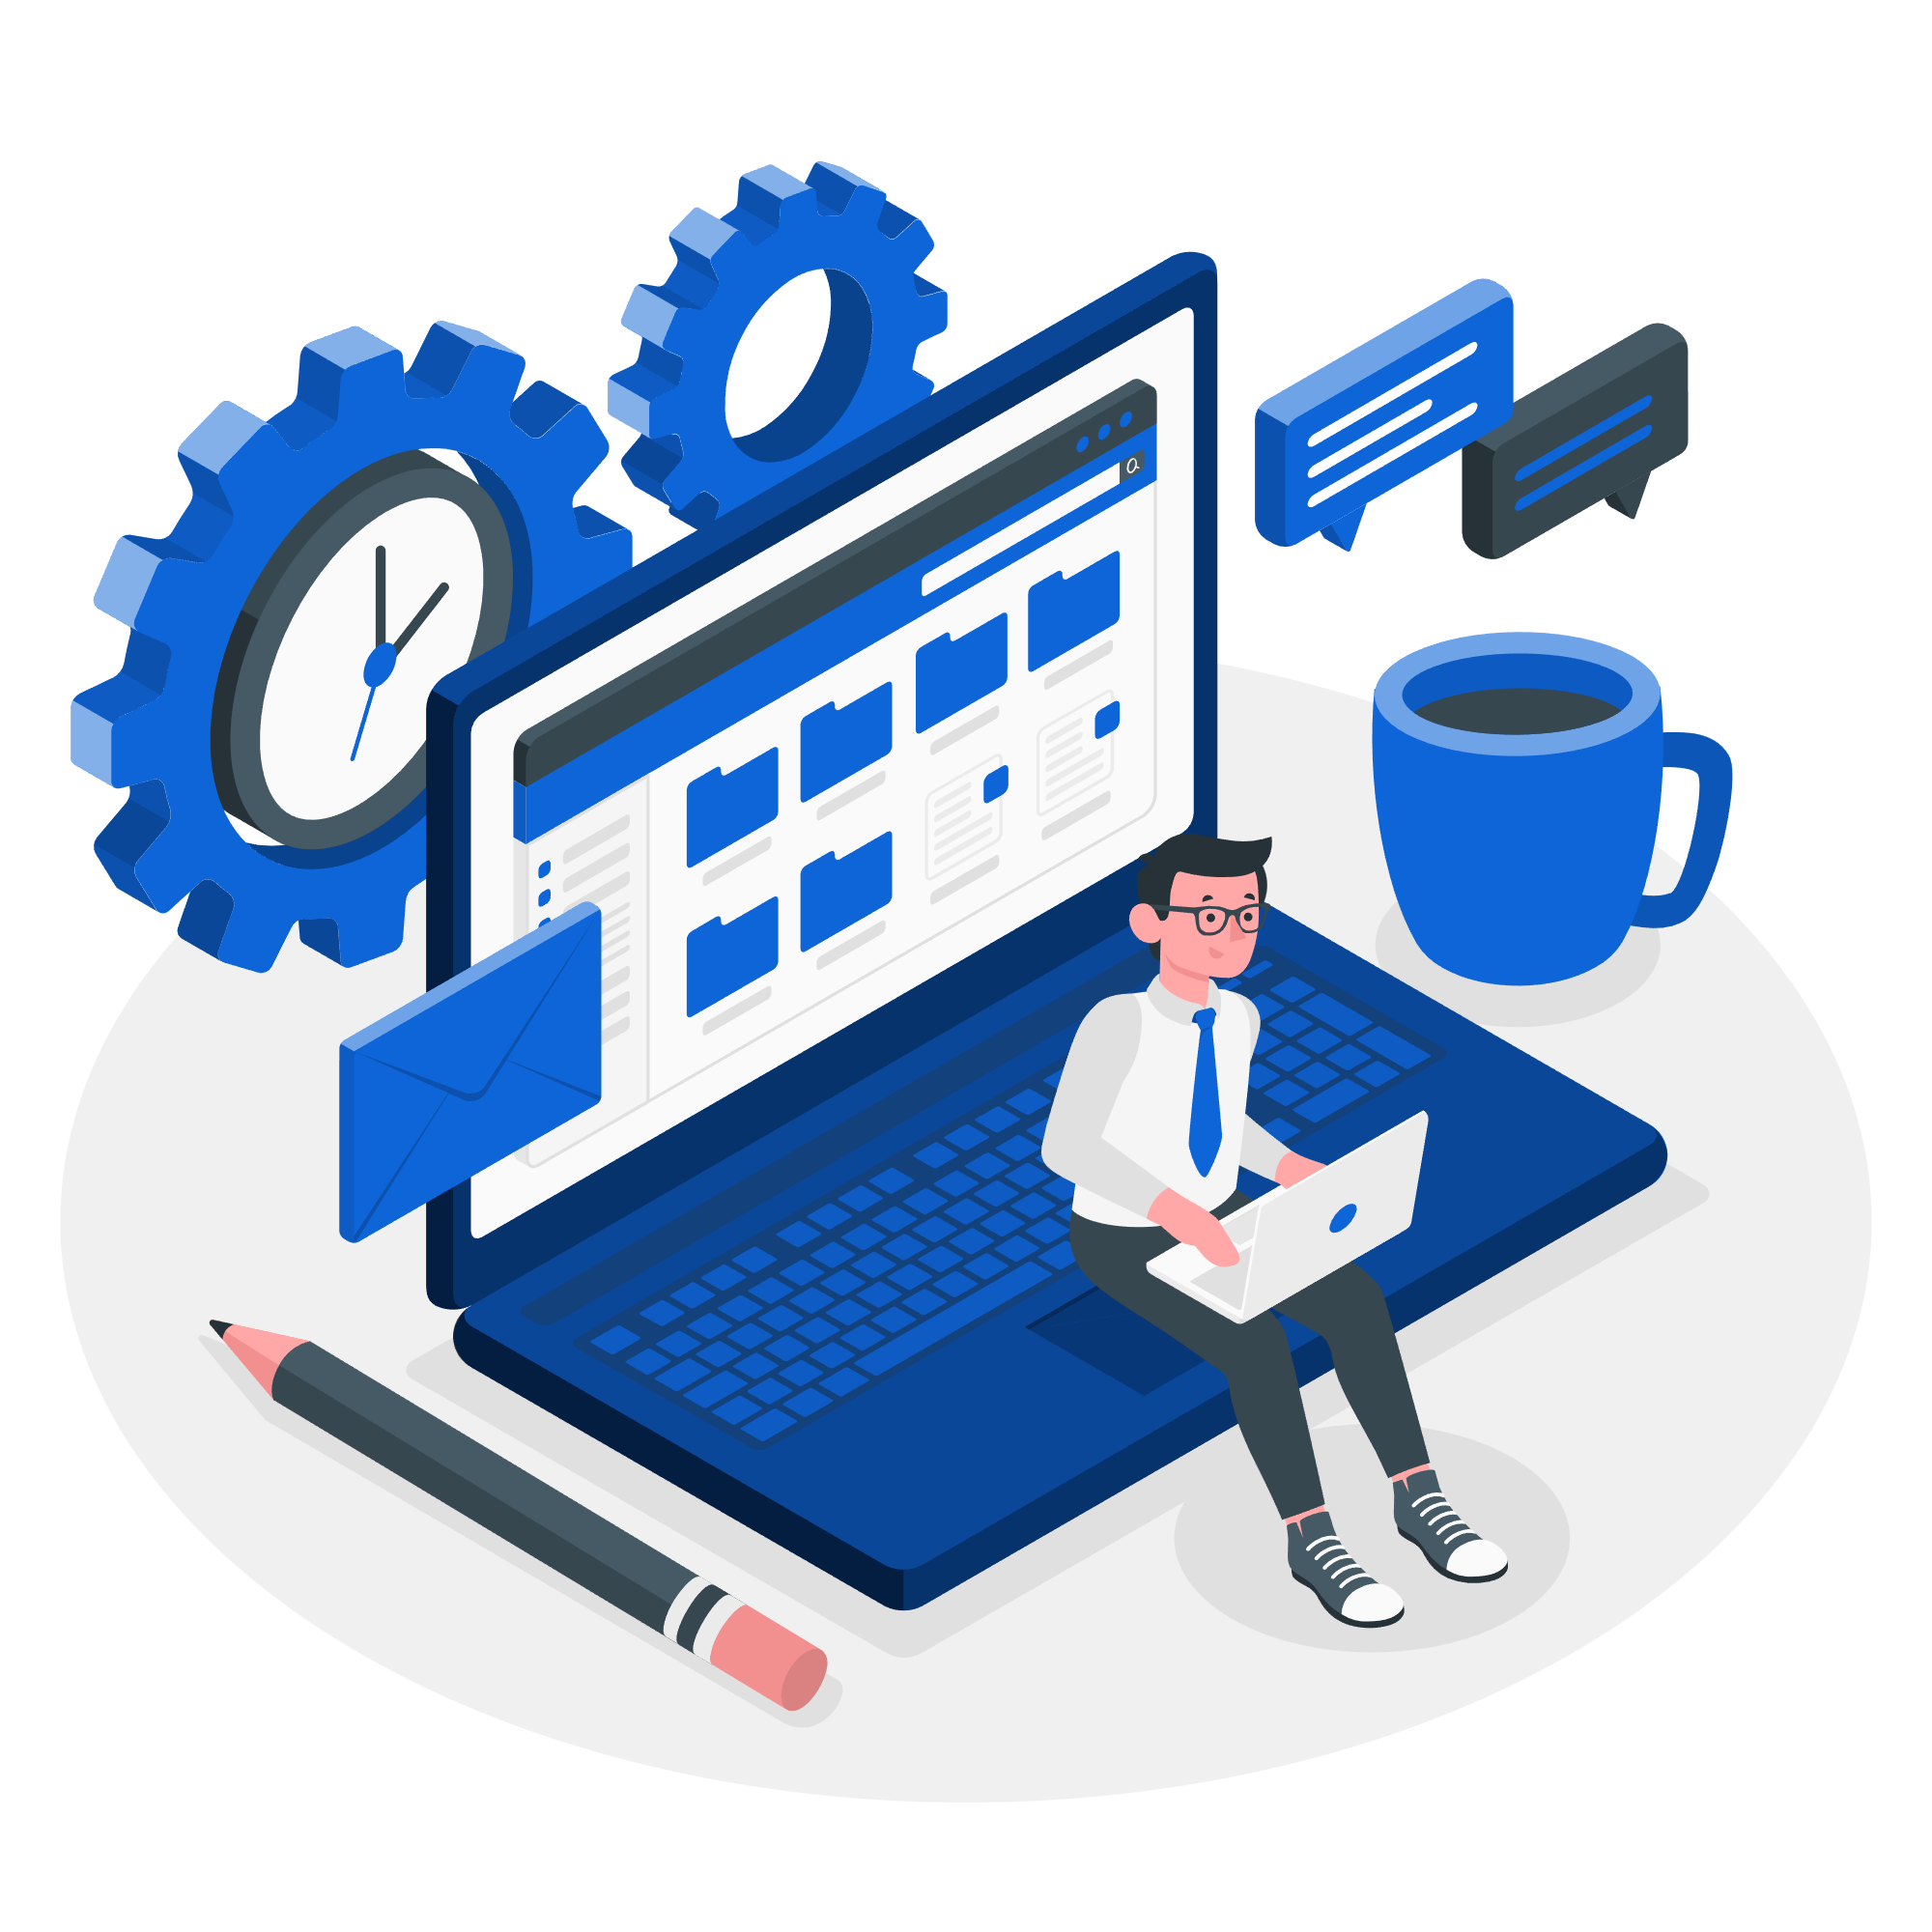
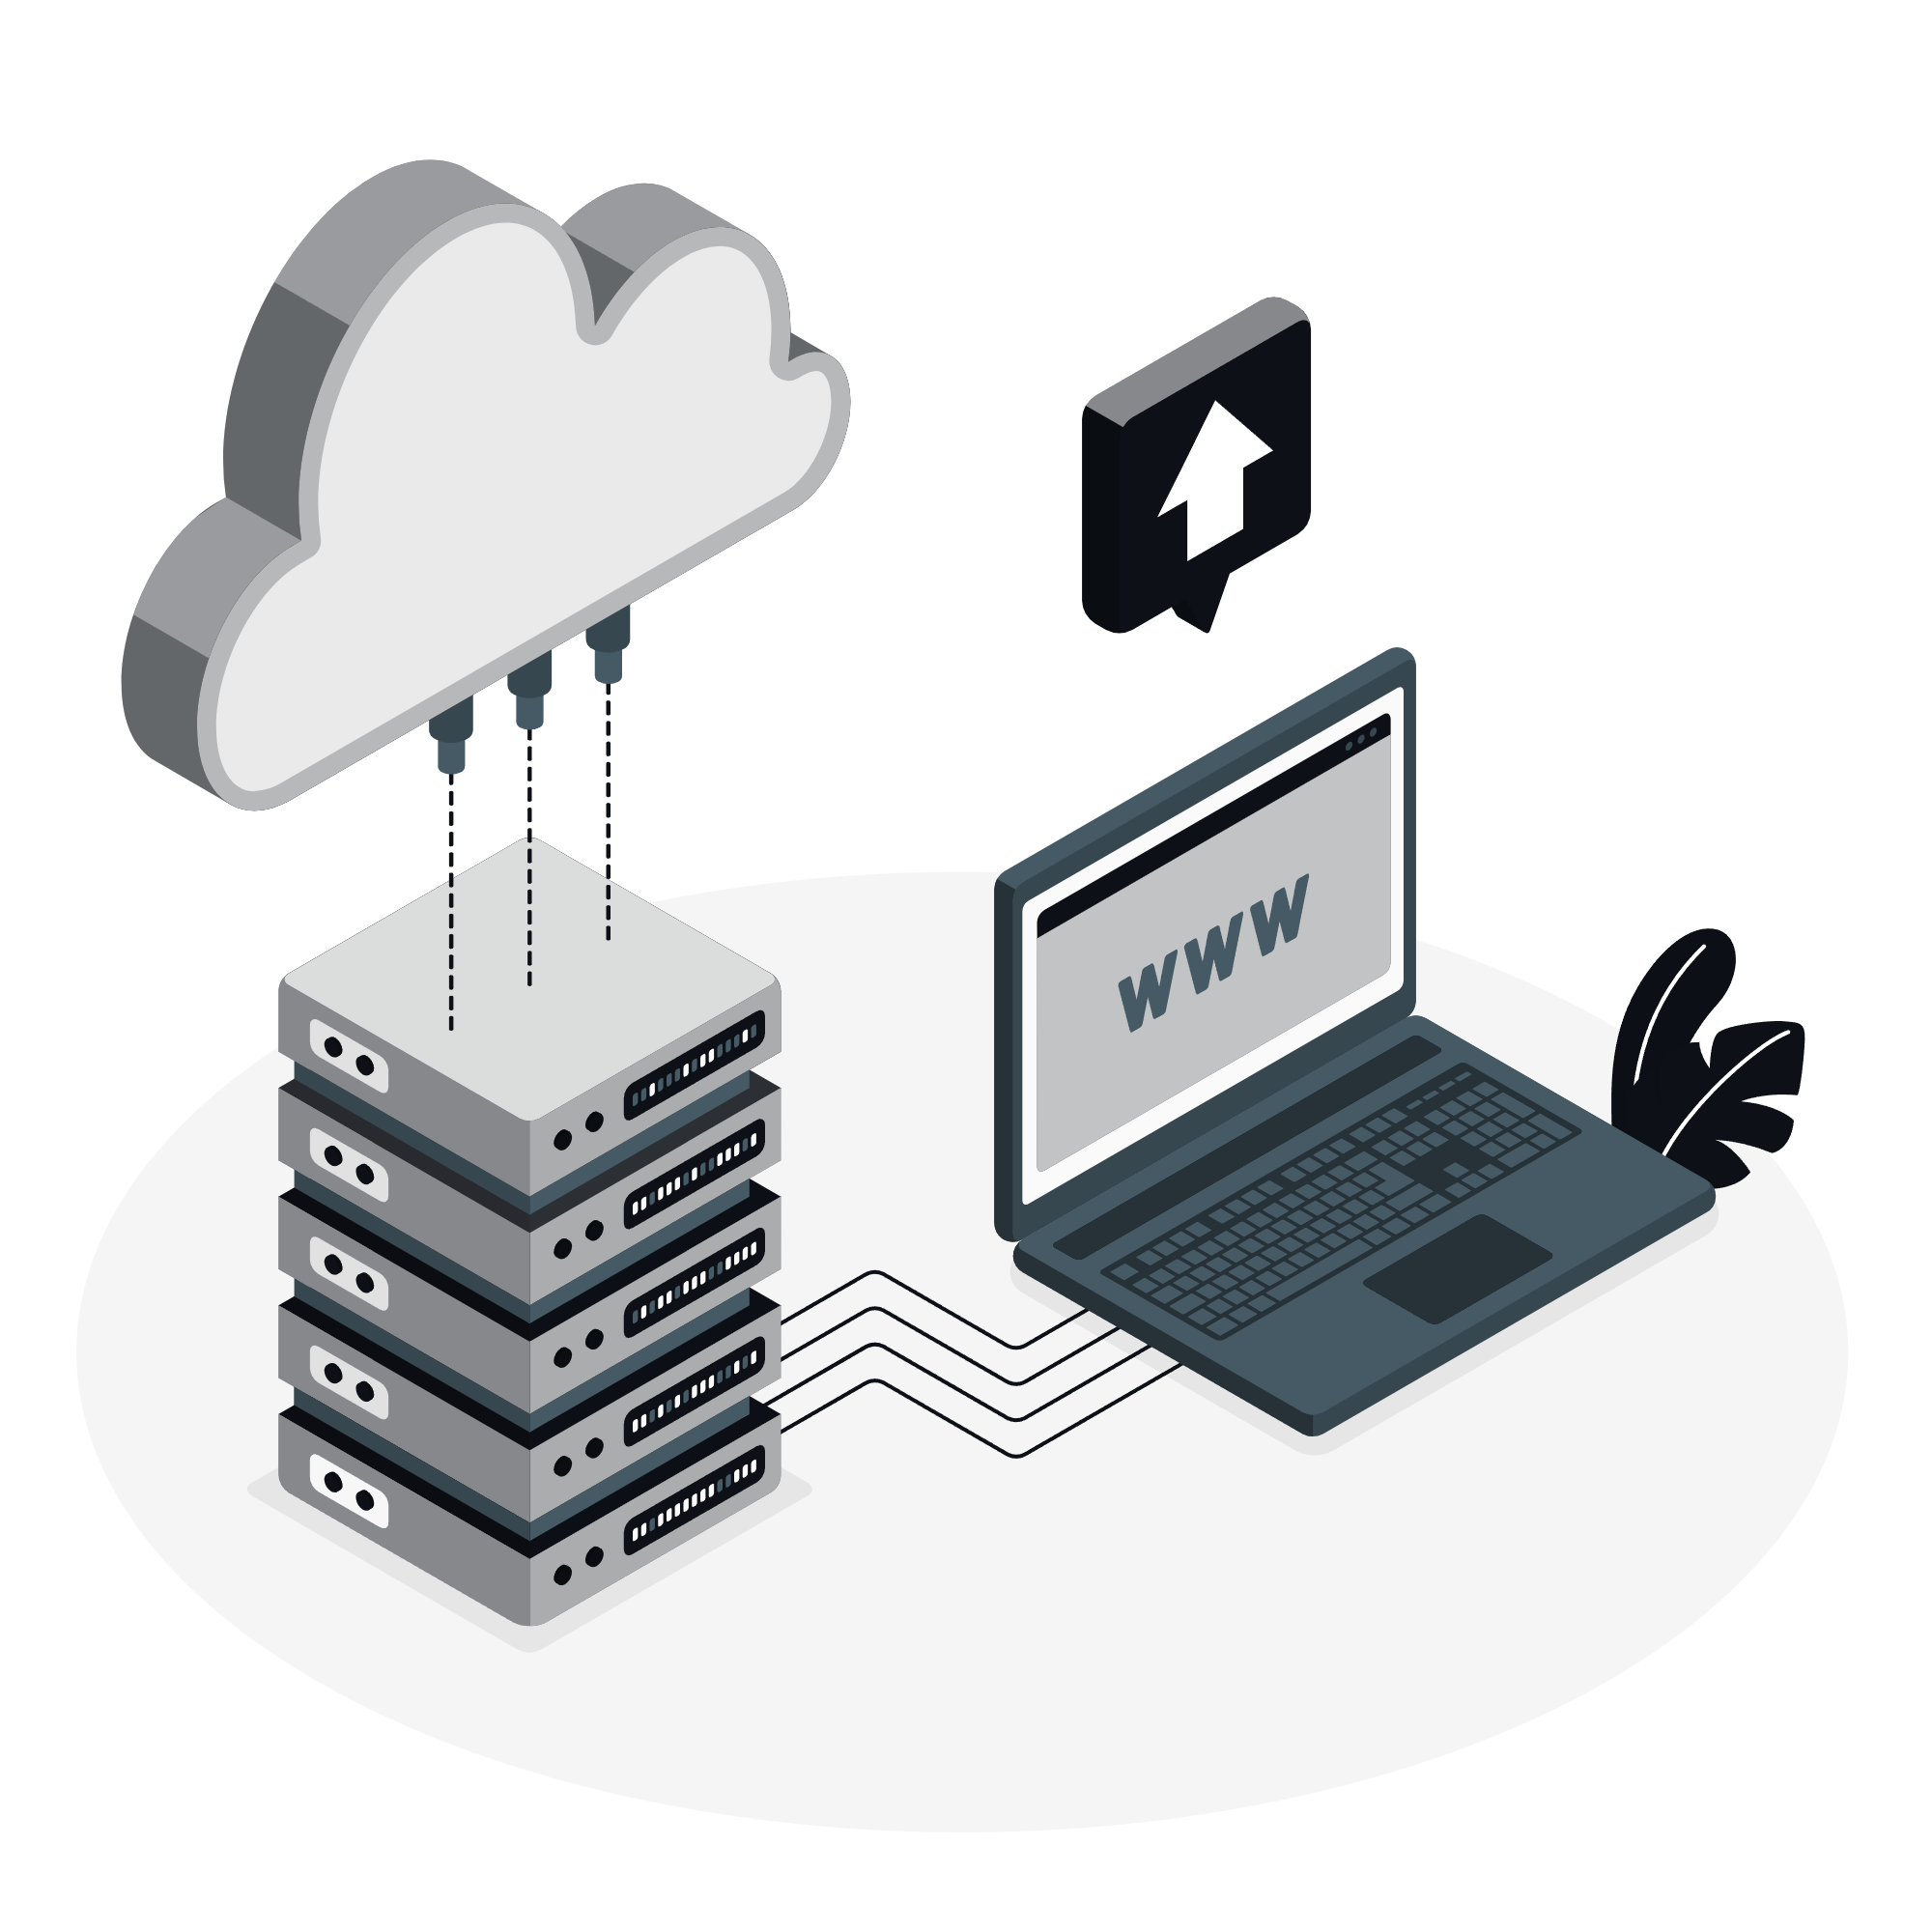
Minor source typo resolved.

diff --git a/index.html b/index.html
@@ -174,7 +174,7 @@
             <div class="projects-grid">
                 <div class="project-card fade-in">
                     <div class="project-img">
-                        <img src="Ecom.png" alt="ecom" width="370px" height="250px">
+                        <img src="./assets/Ecom.png" alt="ecom" width="370px" height="250px">
                     </div>
                     <div class="project-info">
                         <h3 class="project-title">E-Commerce Platform</h3>
@@ -193,7 +193,7 @@
                 
                 <div class="project-card fade-in">
                     <div class="project-img">
-                        <img src="SMS.png" alt="student management system" width="350px">
+                        <img src="./assets/SMS.png" alt="student management system" width="350px">
                     </div>
                     <div class="project-info">
                         <h3 class="project-title">Student Management System</h3>
@@ -212,7 +212,7 @@
                 
                 <div class="project-card fade-in">
                     <div class="project-img">
-                        <img src="MEN.png" alt="MEN API" width="380px">
+                        <img src="./assets/MEN.png" alt="MEN API" width="380px">
                     </div>
                     <div class="project-info">
                         <h3 class="project-title">MEN API Development</h3>